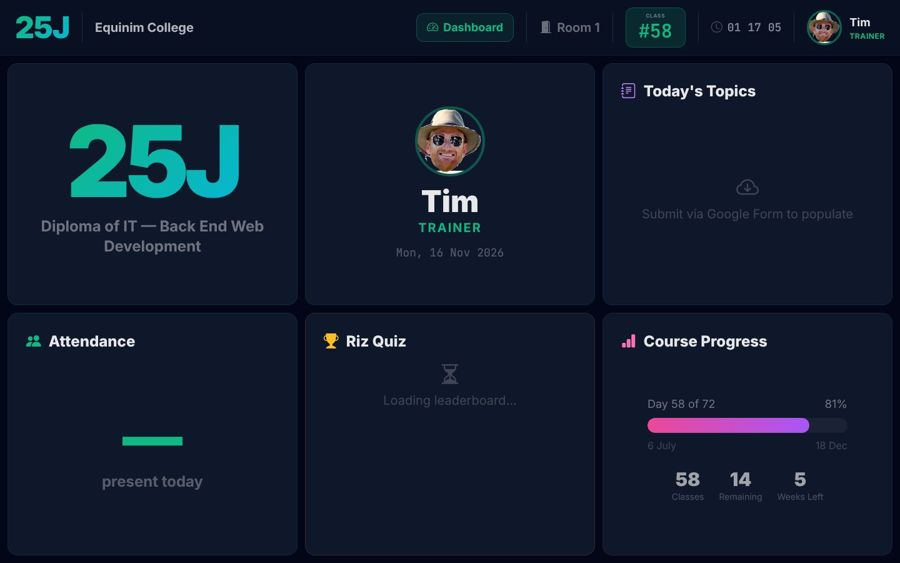
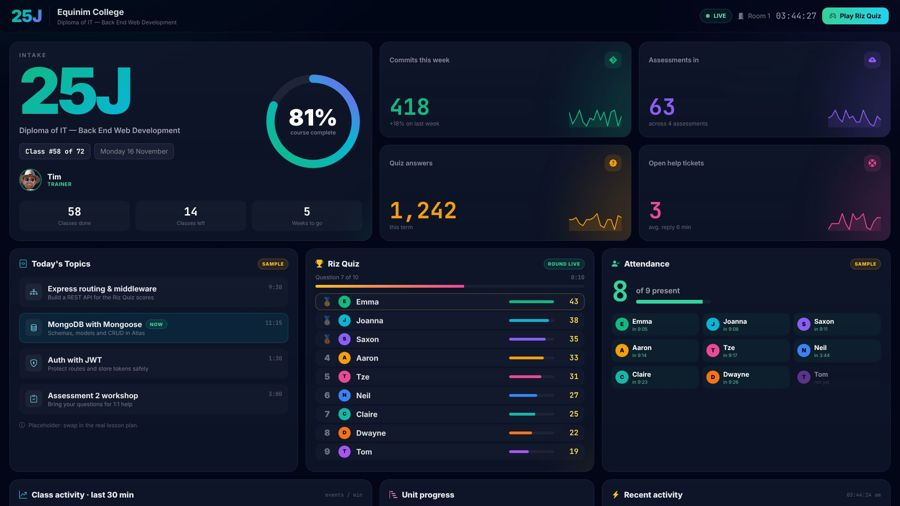
Profile: refresh 25J thumbnail and blurb
Claude-Session: https://claude.ai/code/session_01U9jHGfupcdjiUvc4DJbMSU

diff --git a/README.md b/README.md
@@ -163,7 +163,7 @@ Every one of these has a README with setup steps, deployment notes and screensho
 <td width="50%" valign="top">
 <a href="https://eqc-hub-25j.vercel.app"><img src="assets/screens/featured-eqc-hub-25j.jpg" alt="EQC Hub: Intake 25J"/></a>
 <br/><b>EQC Hub: Intake 25J</b><br/>
-Big-screen classroom hub plus a live dashboard: animated counters, Chart.js charts and an activity feed that refreshes on its own.
+One big-screen live dashboard: progress ring, animated stats, Riz Quiz leaderboard, attendance and an activity feed that refreshes on its own.
 <br/><a href="https://eqc-hub-25j.vercel.app">Live demo</a> · <a href="https://github.com/thedalycreative/eqc-hub-25J">Repo</a>
 <br/><img src="https://img.shields.io/badge/HTML-E34F26?style=flat-square&logo=html5&logoColor=white" alt="HTML"/> <img src="https://img.shields.io/badge/Tailwind_CSS-06B6D4?style=flat-square&logo=tailwindcss&logoColor=white" alt="Tailwind CSS"/> <img src="https://img.shields.io/badge/Chart.js-FF6384?style=flat-square&logo=chartdotjs&logoColor=white" alt="Chart.js"/> <img src="https://img.shields.io/badge/Firebase-DD2C00?style=flat-square&logo=firebase&logoColor=white" alt="Firebase"/> <img src="https://img.shields.io/badge/Vercel-000000?style=flat-square&logo=vercel&logoColor=white" alt="Vercel"/>
 </td>
